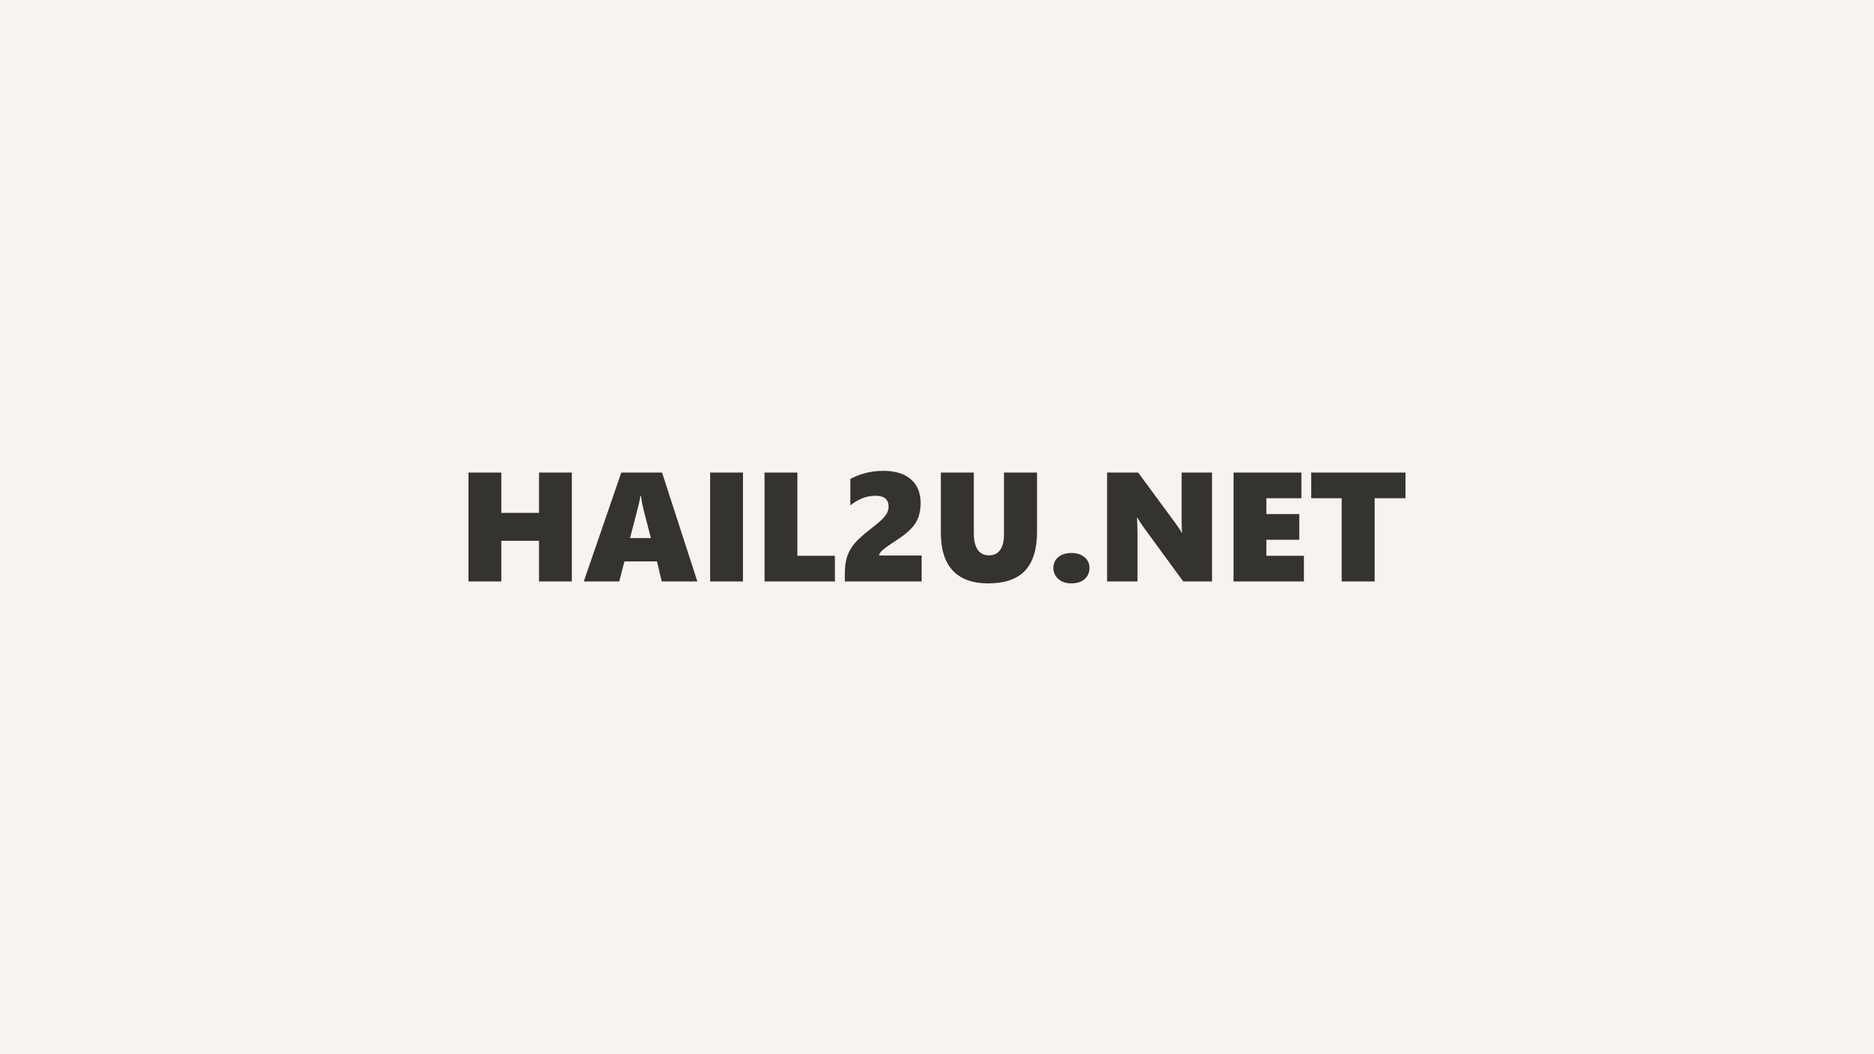
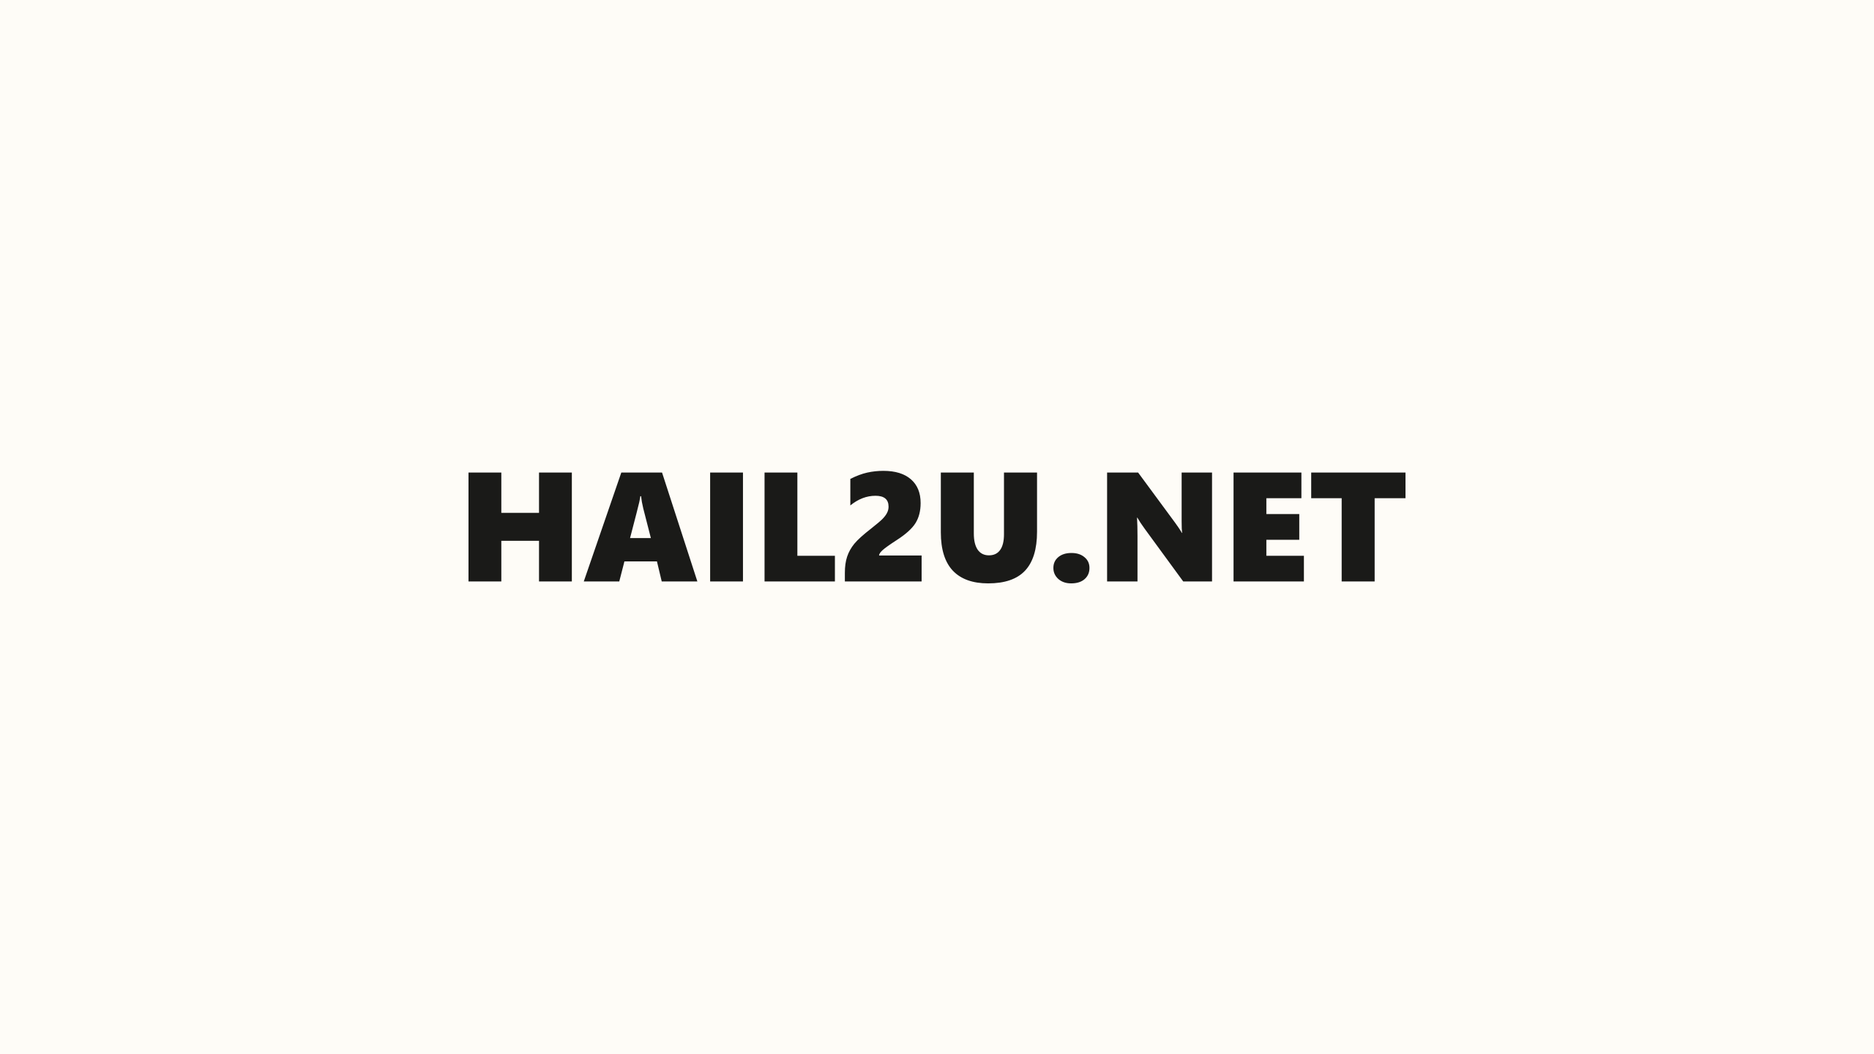
Build

Changed region(s): [[0.25, 0.4375, 0.75, 0.5625]]

diff --git a/styles/main.min.css b/styles/main.min.css
@@ -2,4 +2,4 @@
  * main.css
  *
  * LICENSE: http://hail2u.mit-license.org/2011
- */:root{font-family:system-ui,-apple-system,BlinkMacSystemFont,Segoe UI,Yu Gothic UI,sans-serif;font-feature-settings:"kern" 1,"lnum" 1,"pnum" 1;font-kerning:normal;font-size:100%;font-variant-numeric:lining-nums proportional-nums;line-height:1.7}body{background-color:#faf6eb;color:#1b1a18;margin:0 0 1.7rem}h1{font-size:1.7rem;font-weight:400;line-height:1.36;margin:8.352rem 0 1.7rem}p{margin:0 0 1.7rem}hr{background-color:transparent;border:0;box-sizing:content-box;clear:both;color:#504e49;font-size:.588rem;height:1em;line-height:1;margin:2.89rem 0;text-align:center}hr:before{content:"✖ ✖ ✖"}pre{clear:both;font-family:Menlo,Consolas,monospace;font-feature-settings:"zero" 1;font-size:.8rem;font-variant-numeric:lining-nums proportional-nums slashed-zero;line-height:1.417;margin:0 0 1.7rem;overflow:auto}blockquote{border-left:.231rem solid #bab6ab;clear:both;margin:0;padding-left:1.469rem}figure blockquote>:last-child{margin-bottom:0}ul,ol{margin:0 0 1.7rem;padding-left:1.7rem}ul ul,ul ol,ol ul,ol ol{margin-bottom:0}dl{margin:0 0 1.7rem}dl dl{margin-bottom:0}dt{font-weight:700;margin-bottom:.588rem}dd{margin-bottom:.588rem;margin-left:1.7rem}figure{margin:0 0 1.7rem;position:relative}figcaption{border-bottom:.115rem solid #bab6ab;color:#504e49;display:inline-block;font-size:.8rem;margin-top:.588rem}blockquote+figcaption{border-bottom:0;border-left:.231rem solid #bab6ab;font-size:inherit;margin-top:0;padding-left:1.469rem;padding-top:1.7rem}main{display:block}a{color:#13566c;-webkit-text-decoration-skip:ink;text-decoration-skip:ink}em{font-style:normal;font-weight:700}strong{font-size:.8rem;-webkit-text-emphasis-style:dot;text-emphasis-style:dot}cite{font-style:normal}abbr{cursor:help;letter-spacing:.058rem;text-decoration:none;text-decoration:underline dotted}code,var,samp,kbd{font-family:Menlo,Consolas,monospace;font-feature-settings:"zero" 1;font-size:1em;font-variant-numeric:lining-nums proportional-nums slashed-zero}var{font-style:normal}ins{text-decoration:none}del{text-decoration:line-through}img,video{border:0;box-sizing:border-box;height:auto;max-height:100%;max-width:100%}figure img,figure video{vertical-align:bottom}table{border-bottom:.058rem solid #bab6ab;border-collapse:collapse;border-spacing:0;clear:both;display:inline-block;font-feature-settings:"tnum" 1;font-variant-numeric:lining-nums tabular-nums slashed-zero;margin:0 0 1.7rem;max-width:100%;overflow-x:auto;table-layout:fixed}figure>table{margin-bottom:0}th,td{border-top:.058rem solid #bab6ab;padding:.692rem;vertical-align:top;white-space:nowrap}th{text-align:inherit}thead th{border-bottom:.115rem solid #bab6ab}form{margin:0 0 1.7rem}svg:not(:root){max-height:100%;max-width:100%;overflow:hidden}.global-header{display:flex;flex-flow:row wrap;margin-left:auto;margin-right:auto;margin-top:1.7rem;max-width:32rem;padding-left:.78rem;padding-right:.78rem}.global-header a{text-decoration:none}.logo{font-size:.8rem;font-weight:900;line-height:1;margin-bottom:0;margin-top:0;text-transform:uppercase}.logo svg{height:1.36rem;width:auto}.logo path{fill:#1b1a18}.site-navigation ul{display:flex;margin-bottom:0;padding-left:0}.site-navigation li{display:block;font-size:.8rem;margin-left:.78rem}.site-navigation a{color:inherit}.site-navigation mark{background-color:transparent;display:block;position:relative}.site-navigation mark:after{border:.058rem solid #13566c;content:"";display:block;position:absolute;width:100%}.content{margin:-5.462rem auto 8.352rem;max-width:32rem;padding-left:.78rem;padding-right:.78rem}.section{position:relative}.section-footer{color:#504e49;float:left;font-size:1rem;width:100%}.section-footer p{margin-bottom:0}.subheading{font-size:1.36rem;margin-bottom:.346rem;margin-top:4.913rem}.subcontent{margin-left:auto;margin-right:auto;max-width:32rem;padding-left:.78rem;padding-right:.78rem;position:relative}.site-search{position:relative}.site-search input{-webkit-appearance:none;border-radius:0;font-family:inherit;font-size:inherit;height:2.499rem;line-height:2.499rem}.site-search .query{background-color:white;border:.058rem solid #bab6ab;box-sizing:border-box;color:#1b1a18;padding:0 2.499rem 0 .346rem;width:100%}.site-search .query:focus{border-color:#13566c;outline:none}.site-search .button{background-color:transparent;border:0;box-sizing:border-box;height:2.499rem;padding:0;position:absolute;right:0;top:0;width:2.499rem}.site-search .button svg{height:65%;width:auto}.site-search .button path{fill:#504e49}.global-footer{font-size:.8rem;margin-left:auto;margin-right:auto;max-width:32rem;padding-left:.78rem;padding-right:.78rem;position:relative}.footlinks{color:#504e49;margin-bottom:.346rem}.byline{position:relative}.byline a{font-weight:700}.displace{clear:both}.fill{clear:both}.fill img,.fill video,.fill canvas{width:100%}.flat{clear:both}.move{float:right;margin-bottom:0;margin-left:.78rem;margin-top:.35rem}.move img{display:block;height:auto;max-height:12.9rem;max-width:10.667rem;width:auto}.note{clear:both;color:#504e49;font-size:.8rem;line-height:1.53}.posts{padding-left:0}.posts li{font-size:1.36rem;line-height:1.36;list-style-type:none;margin-bottom:1.7rem}.posts a{text-decoration:none}.posts .info{color:#504e49;font-size:.8rem}.seealso{clear:both;font-size:1.36rem}.share ul{display:flex;margin-top:2.89rem;padding-left:0}.share li{display:block;margin-right:.588rem}.share svg{height:1.36rem;vertical-align:middle;width:auto}.share path{fill:#1b1a18}.facebook svg{height:1.197rem}.google svg{height:1.686rem}@media(min-width:54.177rem){:root{font-size:112%}pre{overflow:visible;overflow-wrap:break-word;white-space:pre-wrap}.global-header{margin-top:2.89rem}.logo{font-size:1rem}.logo svg{height:1.7rem}.site-navigation li{font-size:1rem;margin-left:1.326rem}.content{margin-top:-3.439rem}.site-search{position:absolute;right:.78rem;top:-.57rem;width:11.073rem;z-index:1}.global-footer{display:flex}.footlinks{margin-bottom:0;margin-right:12.398rem}.byline{flex-grow:1;margin-bottom:0;order:-1}.flat{display:flex;flex-wrap:wrap;justify-content:space-between}.flat li{display:block;width:calc((100% - 1.326rem*2)/3)}.flat li:nth-child(3n+2):last-child{width:calc((100% - 1.326rem*2)/3*2 + 1.326rem)}.posts li{display:flex;margin-bottom:1rem;white-space:nowrap}.posts .info{line-height:2.312;margin-left:.78rem;order:1}.posts .title{display:block;flex-basis:0;flex-grow:1;overflow:hidden;text-overflow:ellipsis}}@media(min-width:83.956rem){:root{font-size:124%}figcaption{bottom:0;display:block;margin-right:1.326rem;position:absolute;right:100%;width:18.181rem;z-index:1}blockquote+figcaption{margin-right:0;position:static;width:auto}.global-header{margin-top:4.913rem;padding-left:20.287rem}.logo{flex:0 1 auto;margin-left:-19.507rem;width:18.181rem}.content{margin-top:0;padding-left:20.287rem}.section-footer{line-height:2.312;margin-right:1.326rem;position:absolute;right:100%;width:18.181rem;z-index:1}.subcontent{padding-left:20.287rem}.global-footer{padding-left:20.287rem}.byline{flex-grow:0;margin-left:-19.507rem;margin-right:1.326rem;width:18.181rem}.displace{margin-left:-19.507rem;width:32rem}.displace figcaption{left:100%;margin-left:1.326rem;margin-right:0;right:auto}.fill{margin-left:-19.507rem}.fill figcaption{bottom:auto;left:0;margin-top:1.7rem}.hang{margin-right:1.326rem;position:absolute;right:100%;width:18.181rem;z-index:1}.hang img{width:100%}h1.hang{margin-top:0}.section>h1.hang:first-child+*{margin-top:8.352rem}.note{margin-right:1.326rem;position:absolute;right:100%;width:18.181rem;z-index:1}}@media(min-width:1921px) and (min-height:1081px){:root{font-size:1vw}}@media not screen{table{display:table}}
+ */:root{font-family:system-ui,-apple-system,BlinkMacSystemFont,Segoe UI,Yu Gothic UI,sans-serif;font-feature-settings:"kern" 1,"lnum" 1,"pnum" 1;font-kerning:normal;font-size:100%;font-variant-numeric:lining-nums proportional-nums;line-height:1.7}body{background-color:#fefcf6;color:#1b1a18;margin:0 0 1.7rem}h1{font-size:1.7rem;font-weight:400;line-height:1.36;margin:8.352rem 0 1.7rem}p{margin:0 0 1.7rem}hr{background-color:transparent;border:0;box-sizing:content-box;clear:both;color:#504e49;font-size:.588rem;height:1em;line-height:1;margin:2.89rem 0;text-align:center}hr:before{content:"✖ ✖ ✖"}pre{clear:both;font-family:Menlo,Consolas,monospace;font-feature-settings:"zero" 1;font-size:.8rem;font-variant-numeric:lining-nums proportional-nums slashed-zero;line-height:1.417;margin:0 0 1.7rem;overflow:auto}blockquote{border-left:.231rem solid #c6c2b9;clear:both;margin:0;padding-left:1.469rem}figure blockquote>:last-child{margin-bottom:0}ul,ol{margin:0 0 1.7rem;padding-left:1.7rem}ul ul,ul ol,ol ul,ol ol{margin-bottom:0}dl{margin:0 0 1.7rem}dl dl{margin-bottom:0}dt{font-weight:700;margin-bottom:.588rem}dd{margin-bottom:.588rem;margin-left:1.7rem}figure{margin:0 0 1.7rem;position:relative}figcaption{border-bottom:.115rem solid #c6c2b9;color:#504e49;display:inline-block;font-size:.8rem;margin-top:.588rem}blockquote+figcaption{border-bottom:0;border-left:.231rem solid #c6c2b9;font-size:inherit;margin-top:0;padding-left:1.469rem;padding-top:1.7rem}main{display:block}a{color:#105870;-webkit-text-decoration-skip:ink;text-decoration-skip:ink}em{font-style:normal;font-weight:700}strong{font-size:.8rem;-webkit-text-emphasis-style:dot;text-emphasis-style:dot}cite{font-style:normal}abbr{cursor:help;letter-spacing:.058rem;text-decoration:none;text-decoration:underline dotted}code,var,samp,kbd{font-family:Menlo,Consolas,monospace;font-feature-settings:"zero" 1;font-size:1em;font-variant-numeric:lining-nums proportional-nums slashed-zero}var{font-style:normal}ins{text-decoration:none}del{text-decoration:line-through}img,video{border:0;box-sizing:border-box;height:auto;max-height:100%;max-width:100%}figure img,figure video{vertical-align:bottom}table{border-bottom:.058rem solid #c6c2b9;border-collapse:collapse;border-spacing:0;clear:both;display:inline-block;font-feature-settings:"tnum" 1;font-variant-numeric:lining-nums tabular-nums slashed-zero;margin:0 0 1.7rem;max-width:100%;overflow-x:auto;table-layout:fixed}figure>table{margin-bottom:0}th,td{border-top:.058rem solid #c6c2b9;padding:.692rem;vertical-align:top;white-space:nowrap}th{text-align:inherit}thead th{border-bottom:.115rem solid #c6c2b9}form{margin:0 0 1.7rem}svg:not(:root){max-height:100%;max-width:100%;overflow:hidden}.global-header{display:flex;flex-flow:row wrap;margin-left:auto;margin-right:auto;margin-top:1.7rem;max-width:32rem;padding-left:.78rem;padding-right:.78rem}.global-header a{text-decoration:none}.logo{font-size:.8rem;font-weight:900;line-height:1;margin-bottom:0;margin-top:0;text-transform:uppercase}.logo svg{height:1.36rem;width:auto}.logo path{fill:#1b1a18}.site-navigation ul{display:flex;margin-bottom:0;padding-left:0}.site-navigation li{display:block;font-size:.8rem;margin-left:.78rem}.site-navigation a{color:inherit}.site-navigation mark{background-color:transparent;display:block;position:relative}.site-navigation mark:after{border:.058rem solid #105870;content:"";display:block;position:absolute;width:100%}.content{margin:-5.462rem auto 8.352rem;max-width:32rem;padding-left:.78rem;padding-right:.78rem}.section{position:relative}.section-footer{color:#504e49;float:left;font-size:1rem;width:100%}.section-footer p{margin-bottom:0}.subheading{font-size:1.36rem;margin-bottom:.346rem;margin-top:4.913rem}.subcontent{margin-left:auto;margin-right:auto;max-width:32rem;padding-left:.78rem;padding-right:.78rem;position:relative}.site-search{position:relative}.site-search input{-webkit-appearance:none;border-radius:0;font-family:inherit;font-size:inherit;height:2.499rem;line-height:2.499rem}.site-search .query{background-color:white;border:.058rem solid #c6c2b9;box-sizing:border-box;color:#1b1a18;padding:0 2.499rem 0 .346rem;width:100%}.site-search .query:focus{border-color:#105870;outline:none}.site-search .button{background-color:transparent;border:0;box-sizing:border-box;height:2.499rem;padding:0;position:absolute;right:0;top:0;width:2.499rem}.site-search .button svg{height:65%;width:auto}.site-search .button path{fill:#504e49}.global-footer{font-size:.8rem;margin-left:auto;margin-right:auto;max-width:32rem;padding-left:.78rem;padding-right:.78rem;position:relative}.footlinks{color:#504e49;margin-bottom:.346rem}.byline{position:relative}.byline a{font-weight:700}.displace{clear:both}.fill{clear:both}.fill img,.fill video,.fill canvas{width:100%}.flat{clear:both}.move{float:right;margin-bottom:0;margin-left:.78rem;margin-top:.35rem}.move img{display:block;height:auto;max-height:12.9rem;max-width:10.667rem;width:auto}.note{clear:both;color:#504e49;font-size:.8rem;line-height:1.53}.posts{padding-left:0}.posts li{font-size:1.36rem;line-height:1.36;list-style-type:none;margin-bottom:1.7rem}.posts a{text-decoration:none}.posts .info{color:#504e49;font-size:.8rem}.seealso{clear:both;font-size:1.36rem}.share ul{display:flex;margin-top:2.89rem;padding-left:0}.share li{display:block;margin-right:.588rem}.share svg{height:1.36rem;vertical-align:middle;width:auto}.share path{fill:#1b1a18}.facebook svg{height:1.197rem}.google svg{height:1.686rem}@media(min-width:54.177rem){:root{font-size:112%}pre{overflow:visible;overflow-wrap:break-word;white-space:pre-wrap}.global-header{margin-top:2.89rem}.logo{font-size:1rem}.logo svg{height:1.7rem}.site-navigation li{font-size:1rem;margin-left:1.326rem}.content{margin-top:-3.439rem}.site-search{position:absolute;right:.78rem;top:-.57rem;width:11.073rem;z-index:1}.global-footer{display:flex}.footlinks{margin-bottom:0;margin-right:12.398rem}.byline{flex-grow:1;margin-bottom:0;order:-1}.flat{display:flex;flex-wrap:wrap;justify-content:space-between}.flat li{display:block;width:calc((100% - 1.326rem*2)/3)}.flat li:nth-child(3n+2):last-child{width:calc((100% - 1.326rem*2)/3*2 + 1.326rem)}.posts li{display:flex;margin-bottom:1rem;white-space:nowrap}.posts .info{line-height:2.312;margin-left:.78rem;order:1}.posts .title{display:block;flex-basis:0;flex-grow:1;overflow:hidden;text-overflow:ellipsis}}@media(min-width:83.956rem){:root{font-size:124%}figcaption{bottom:0;display:block;margin-right:1.326rem;position:absolute;right:100%;width:18.181rem;z-index:1}blockquote+figcaption{margin-right:0;position:static;width:auto}.global-header{margin-top:4.913rem;padding-left:20.287rem}.logo{flex:0 1 auto;margin-left:-19.507rem;width:18.181rem}.content{margin-top:0;padding-left:20.287rem}.section-footer{line-height:2.312;margin-right:1.326rem;position:absolute;right:100%;width:18.181rem;z-index:1}.subcontent{padding-left:20.287rem}.global-footer{padding-left:20.287rem}.byline{flex-grow:0;margin-left:-19.507rem;margin-right:1.326rem;width:18.181rem}.displace{margin-left:-19.507rem;width:32rem}.displace figcaption{left:100%;margin-left:1.326rem;margin-right:0;right:auto}.fill{margin-left:-19.507rem}.fill figcaption{bottom:auto;left:0;margin-top:1.7rem}.hang{margin-right:1.326rem;position:absolute;right:100%;width:18.181rem;z-index:1}.hang img{width:100%}h1.hang{margin-top:0}.section>h1.hang:first-child+*{margin-top:8.352rem}.note{margin-right:1.326rem;position:absolute;right:100%;width:18.181rem;z-index:1}}@media(min-width:1921px) and (min-height:1081px){:root{font-size:1vw}}@media not screen{table{display:table}}

diff --git a/styles/debug.min.css b/styles/debug.min.css
@@ -2,4 +2,4 @@
  * debug.css
  *
  * LICENSE: http://hail2u.mit-license.org/2011
- */.show-column:before{background-image:linear-gradient(to right,lime 0,lime 100%),linear-gradient(to right,lime 0,lime 100%),linear-gradient(to right,magenta 0,magenta 100%);background-position:left center,right center,center;background-repeat:repeat-y;background-size:.585rem,.585rem,100%;bottom:0;content:"";left:0;opacity:.05;pointer-events:none;position:fixed;right:0;top:0;z-index:1}.show-outline *{outline:1px solid magenta}body:after{background-color:#096;bottom:.5rem;color:white;content:"Small";display:block;font-size:.875rem;line-height:1;padding:.25rem;position:fixed;right:.5rem}.font-family-body{font-family:system-ui,-apple-system,BlinkMacSystemFont,Segoe UI,Yu Gothic UI,sans-serif}.font-family-pre{font-family:Menlo,Consolas,monospace}.italic{font-style:italic}.bold{font-weight:700}.colors{display:flex;flex-wrap:wrap;justify-content:space-between;margin-bottom:0;padding-left:0}.colors li{display:block;height:2.89rem;margin-bottom:1.7rem;overflow:hidden;width:calc((100%/5) - .78rem)}.colors li:before{border:1px solid black;box-sizing:border-box;content:"";display:block;height:100%;width:100%}.colors li:nth-child(1):before{background-color:#1b1a18}.colors li:nth-child(2):before{background-color:#504e49}.colors li:nth-child(3):before{background-color:#13566c}.colors li:nth-child(4):before{background-color:#faf6eb}.colors li:nth-child(5):before{background-color:#bab6ab}.line-length{font-family:Verdana,sans-serif;word-break:break-all}@media(min-width:33.56rem){.show-column:before{background-image:linear-gradient(to right,lime 0,lime .78rem,magenta .78rem,magenta 32.78rem,lime 32.78rem,lime 33.56rem);background-position:center;background-size:33.56rem 1px}}@media(min-width:54.177rem){body:after{content:"Medium: 866.827px"}}@media(min-width:83.956rem){.show-column:before{background-image:linear-gradient(to right,lime 0,lime .78rem,magenta .78rem,magenta 18.961rem,lime 18.961rem,lime 20.287rem,magenta 20.287rem,magenta 52.287rem,lime 52.287rem,lime 53.067rem);background-size:53.067rem 1px}body:after{content:"Large: 1343.293px"}}@media print{body:after{display:none}}
+ */.show-column:before{background-image:linear-gradient(to right,lime 0,lime 100%),linear-gradient(to right,lime 0,lime 100%),linear-gradient(to right,magenta 0,magenta 100%);background-position:left center,right center,center;background-repeat:repeat-y;background-size:.585rem,.585rem,100%;bottom:0;content:"";left:0;opacity:.05;pointer-events:none;position:fixed;right:0;top:0;z-index:1}.show-outline *{outline:1px solid magenta}body:after{background-color:#096;bottom:.5rem;color:white;content:"Small";display:block;font-size:.875rem;line-height:1;padding:.25rem;position:fixed;right:.5rem}.font-family-body{font-family:system-ui,-apple-system,BlinkMacSystemFont,Segoe UI,Yu Gothic UI,sans-serif}.font-family-pre{font-family:Menlo,Consolas,monospace}.italic{font-style:italic}.bold{font-weight:700}.colors{display:flex;flex-wrap:wrap;justify-content:space-between;margin-bottom:0;padding-left:0}.colors li{display:block;height:2.89rem;margin-bottom:1.7rem;overflow:hidden;width:calc((100%/5) - .78rem)}.colors li:before{border:1px solid black;box-sizing:border-box;content:"";display:block;height:100%;width:100%}.colors li:nth-child(1):before{background-color:#1b1a18}.colors li:nth-child(2):before{background-color:#504e49}.colors li:nth-child(3):before{background-color:#105870}.colors li:nth-child(4):before{background-color:#fefcf6}.colors li:nth-child(5):before{background-color:#c6c2b9}.line-length{font-family:Verdana,sans-serif;word-break:break-all}@media(min-width:33.56rem){.show-column:before{background-image:linear-gradient(to right,lime 0,lime .78rem,magenta .78rem,magenta 32.78rem,lime 32.78rem,lime 33.56rem);background-position:center;background-size:33.56rem 1px}}@media(min-width:54.177rem){body:after{content:"Medium: 866.827px"}}@media(min-width:83.956rem){.show-column:before{background-image:linear-gradient(to right,lime 0,lime .78rem,magenta .78rem,magenta 18.961rem,lime 18.961rem,lime 20.287rem,magenta 20.287rem,magenta 52.287rem,lime 52.287rem,lime 53.067rem);background-size:53.067rem 1px}body:after{content:"Large: 1343.293px"}}@media print{body:after{display:none}}

diff --git a/styles/main.css b/styles/main.css
@@ -22,7 +22,7 @@
       font-size: 1vw; } }
 
 body {
-  background-color: #faf6eb;
+  background-color: #fefcf6;
   color: #1b1a18;
   margin: 0 0 1.7rem; }
 
@@ -66,7 +66,7 @@ pre {
       white-space: pre-wrap; } }
 
 blockquote {
-  border-left: 0.23068rem solid #bab6ab;
+  border-left: 0.23068rem solid #c6c2b9;
   clear: both;
   margin: 0;
   padding-left: 1.46932rem; }
@@ -104,7 +104,7 @@ figure {
   position: relative; }
 
 figcaption {
-  border-bottom: 0.11534rem solid #bab6ab;
+  border-bottom: 0.11534rem solid #c6c2b9;
   color: #504e49;
   display: inline-block;
   font-size: 0.8rem;
@@ -121,7 +121,7 @@ figcaption {
 
 blockquote + figcaption {
   border-bottom: 0;
-  border-left: 0.23068rem solid #bab6ab;
+  border-left: 0.23068rem solid #c6c2b9;
   font-size: inherit;
   margin-top: 0;
   padding-left: 1.46932rem;
@@ -136,7 +136,7 @@ main {
   display: block; }
 
 a {
-  color: #13566c;
+  color: #105870;
   -webkit-text-decoration-skip: ink;
   text-decoration-skip: ink; }
 
@@ -189,7 +189,7 @@ figure video {
   vertical-align: bottom; }
 
 table {
-  border-bottom: 0.05767rem solid #bab6ab;
+  border-bottom: 0.05767rem solid #c6c2b9;
   border-collapse: collapse;
   border-spacing: 0;
   clear: both;
@@ -209,7 +209,7 @@ figure > table {
 
 th,
 td {
-  border-top: 0.05767rem solid #bab6ab;
+  border-top: 0.05767rem solid #c6c2b9;
   padding: 0.69204rem;
   vertical-align: top;
   white-space: nowrap; }
@@ -218,7 +218,7 @@ th {
   text-align: inherit; }
 
 thead th {
-  border-bottom: 0.11534rem solid #bab6ab; }
+  border-bottom: 0.11534rem solid #c6c2b9; }
 
 form {
   margin: 0 0 1.7rem; }
@@ -297,7 +297,7 @@ svg:not(:root) {
   position: relative; }
 
 .site-navigation mark::after {
-  border: 0.05767rem solid #13566c;
+  border: 0.05767rem solid #105870;
   content: "";
   display: block;
   position: absolute;
@@ -372,14 +372,14 @@ svg:not(:root) {
 
 .site-search .query {
   background-color: white;
-  border: 0.05767rem solid #bab6ab;
+  border: 0.05767rem solid #c6c2b9;
   box-sizing: border-box;
   color: #1b1a18;
   padding: 0 2.49942rem 0 0.34602rem;
   width: 100%; }
 
 .site-search .query:focus {
-  border-color: #13566c;
+  border-color: #105870;
   outline: none; }
 
 .site-search .button {

diff --git a/styles/debug.css b/styles/debug.css
@@ -92,13 +92,13 @@ body::after {
   background-color: #504e49; }
 
 .colors li:nth-child(3)::before {
-  background-color: #13566c; }
+  background-color: #105870; }
 
 .colors li:nth-child(4)::before {
-  background-color: #faf6eb; }
+  background-color: #fefcf6; }
 
 .colors li:nth-child(5)::before {
-  background-color: #bab6ab; }
+  background-color: #c6c2b9; }
 
 .line-length {
   font-family: Verdana, sans-serif;
